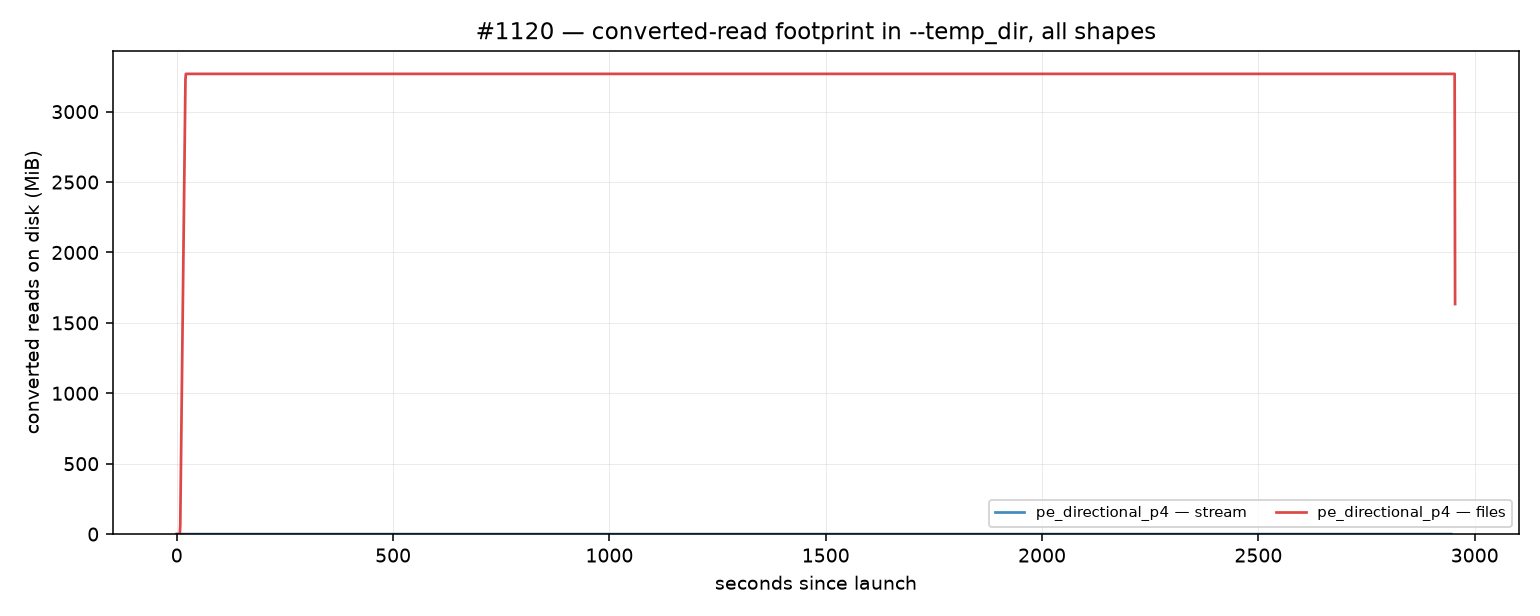
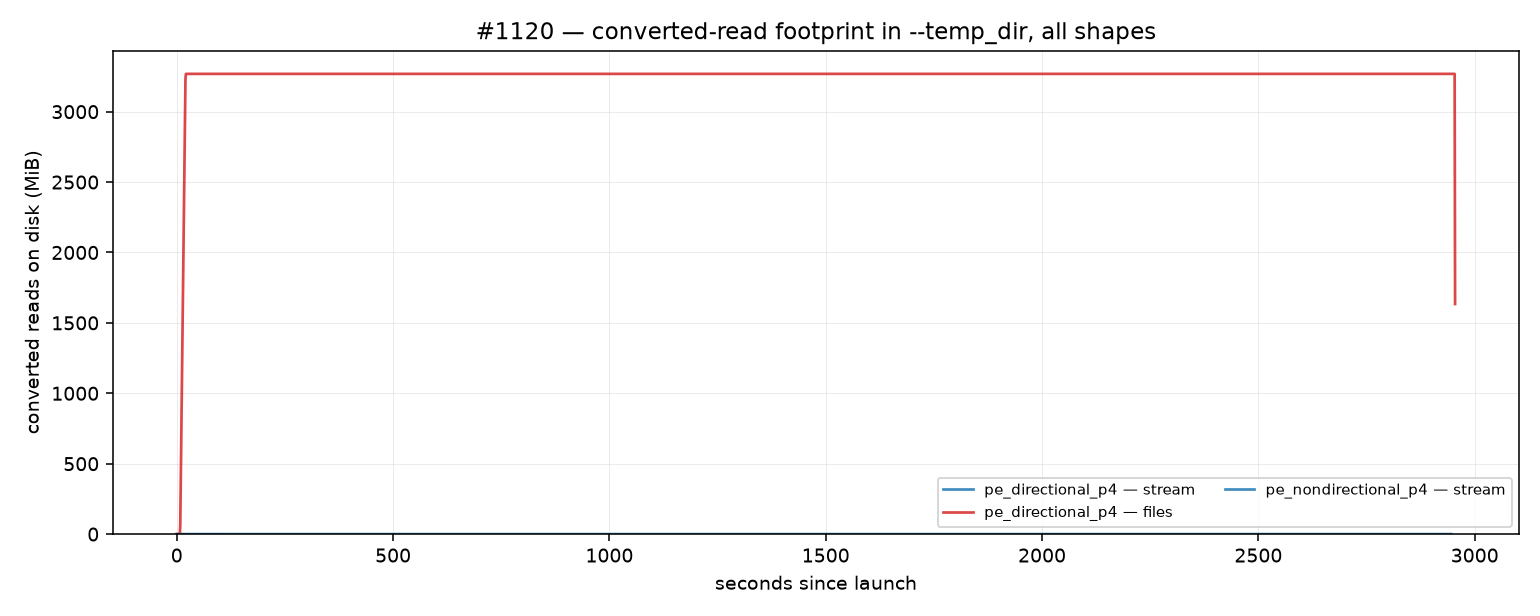
validation: section 7 results written up (#1120 full-scale)
Automated snapshot from the running validation. See
plans/09112026_stream-converted/fullscale/RESULTS.md.

Changed region(s): [[0.5922, 0.7711, 0.9974, 0.8636]]

diff --git a/plans/09112026_stream-converted/fullscale/RESULTS.md b/plans/09112026_stream-converted/fullscale/RESULTS.md
@@ -146,3 +146,54 @@ costing nothing. It does not need the knob turned.
 Thread counts corroborate: the file arm steps 20 → 15 at t=1761 s as an instance exits, while
 the streamed arm holds 26 until both finish at t=2944 s.
 
+
+### 4.2 Section 7 — the cases only a big run can reach (2026-09-11)
+
+All three pass. Log: `logs/edge.log`.
+
+#### 7.2 A genuinely constrained `--temp_dir` — **the premise, demonstrated**
+
+`FULLSCALE.md` calls this "the whole point of the feature, and nothing has demonstrated it
+yet". It has now. A 512 MiB tmpfs as `--temp_dir`, against 2M read pairs whose converted set
+needs roughly twice that:
+
+| arm | exit | records |
+|---|---|---|
+| files (`--no_stream_converted`) | **1** — `I/O error: No space left on device (os error 28)` | 0 |
+| streamed (default) | **0** | 2,398,276 |
+
+One converted copy of R1 alone is 318 MiB and the file arm needs two, so 512 MiB cannot hold
+them. The file arm dies; the streamed arm completes normally and produces a full result set.
+This is the feature working as designed on a disk-constrained scratch, which is the case it
+exists for.
+
+#### 7.1 Long sample names under `--multicore`
+
+FIFO names cap the stem at `NAME_STEM_CAP` (64 bytes) and path uniqueness comes from a
+process-wide counter rather than the name. A collision would surface as interleaved or
+truncated output rather than an error, so exit code alone proves nothing — this compares
+alignment columns against a short-named control.
+
+| run | basename | exit | records |
+|---|---|---|---|
+| control | 26 chars | 0 | 2,398,276 |
+| long name | **203 chars**, `--multicore 4` | 0 | 2,398,276 |
+
+Alignment-identical. **PASS** — the fix that had unit tests but had never run at scale holds.
+
+#### 7.3 Thread and FD counts
+
+Measured across the whole process tree under the widest fan-out available
+(`--non_directional --multicore 2` — 4 converted streams and 8 pipes, concurrently):
+
+| | peak | limit |
+|---|---|---|
+| open FDs | **73** | 65,535 soft — **0.1 % used** |
+| threads | 35 | — |
+| processes | 9 | — |
+
+**PASS**, with three orders of magnitude of headroom. Nothing approaches a ulimit.
+
+Worth noting from the same run: all four conversion streams logged
+`no temp file written`, so non-directional paired-end under `--multicore` streams every one
+of its eight pipes.
